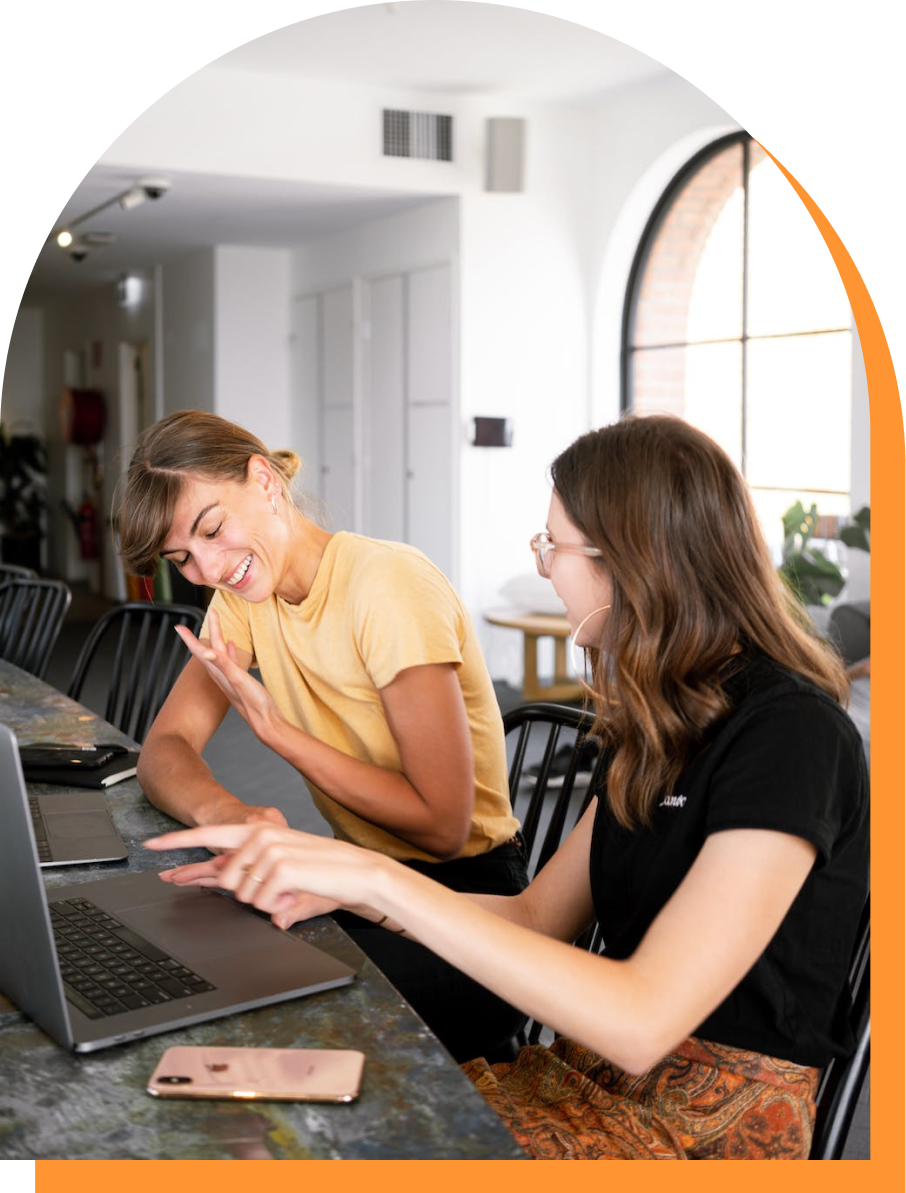
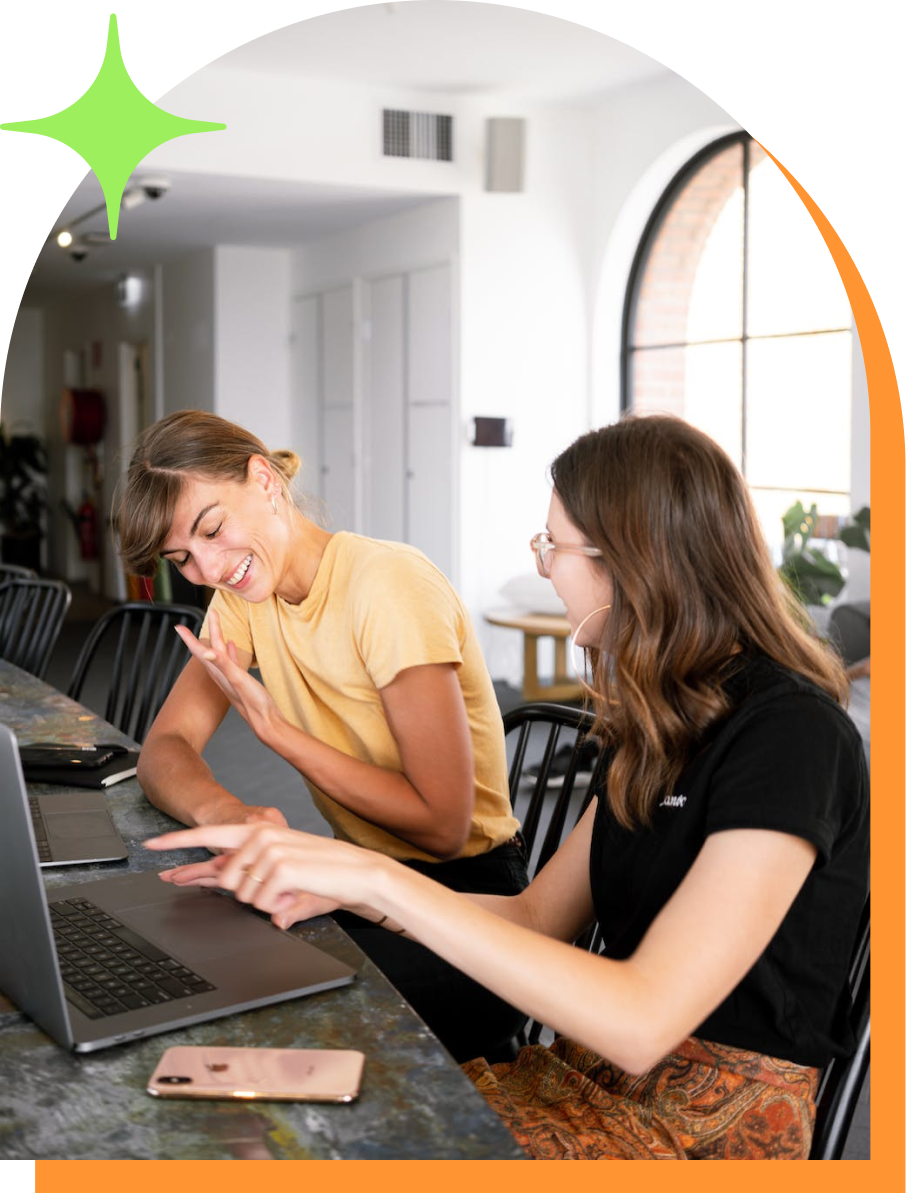
Added green star

Changed region(s): [[0.0, 0.0, 0.2472, 0.1861]]

diff --git a/src/app/page.tsx b/src/app/page.tsx
@@ -15,6 +15,7 @@ import BlueDoor from '@/assets/img/our-work-door.svg'
 import RedRainbow from '@/assets/img/our-work-rainbow.svg'
 import OrangeDirection from '@/assets/img/video-orange-direction.svg'
 import GreenArc from '@/assets/img/video-green-arc.svg'
+import GreenStar from '@/assets/img/interuption-green-start.svg'
 
 import {
   desktop,
